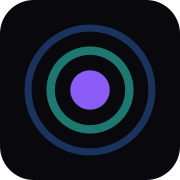
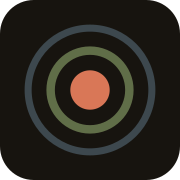
Anthropic-inspired dark reskin: clay accent, serif body, flat cards
josh asked to make the site look like anthropic.com while keeping the
dark theme. Pulled Anthropic's real production palette/typography and
inverted the light-theme values into a warm dark equivalent: clay
accent (#d97757) on warm ink/ivory, Source Serif 4 body paired with
Red Hat Display headings, flat rounded-square icon tiles instead of
glowing hexagons, and calmer/less-rounded cards. Regenerated
og-image/favicon/apple-touch-icon to match.

Changed region(s): [[0.1389, 0.1389, 0.8611, 0.8611], [0.25, 0.25, 0.75, 0.75], [0.3889, 0.3889, 0.6111, 0.6111]]

diff --git a/website/style.css b/website/style.css
@@ -1,15 +1,15 @@
   :root {
     color-scheme: dark;
-    --bg: #08080d;
-    --bg-elev: #121118;
-    --fg: #f3f2f7;
-    --muted: #8c8a99;
-    --accent: #8b5cf6;
-    --accent-2: #2dd4bf;
-    --accent-blue: #3b82f6;
-    --accent-green: #34d399;
-    --line: #24222e;
-    --card: #131019cc;
+    --bg: #17140f;
+    --bg-elev: #201c16;
+    --fg: #f2ede2;
+    --muted: #a89d8c;
+    --accent: #d97757;
+    --accent-2: #9db877;
+    --accent-blue: #83a9c4;
+    --accent-green: #9db877;
+    --line: #332e26;
+    --card: #1c1811cc;
   }
   * { box-sizing: border-box; }
   html { scroll-behavior: smooth; }
@@ -17,12 +17,15 @@
     margin: 0;
     background: var(--bg);
     color: var(--fg);
-    font-family: "Lato", -apple-system, BlinkMacSystemFont, "Segoe UI", Helvetica, Arial, sans-serif;
-    line-height: 1.6;
+    font-family: "Source Serif 4", Georgia, "Times New Roman", serif;
+    line-height: 1.65;
     overflow-x: hidden;
   }
-  h1, h2, .brand, .log-num {
+  h1, h2, .brand, .log-num, .stat-value {
     font-family: "Red Hat Display", -apple-system, BlinkMacSystemFont, "Segoe UI", Helvetica, Arial, sans-serif;
+  }
+  nav.site-nav, .badge, .status-pill, .now-widget, .card-head h2, code, .log-date, .log-header, footer {
+    font-family: -apple-system, BlinkMacSystemFont, "Segoe UI", Helvetica, Arial, sans-serif;
   }
 
   /* ---------- background ---------- */
@@ -31,9 +34,8 @@
     inset: 0;
     z-index: -1;
     background:
-      radial-gradient(600px 400px at 15% -5%, rgba(139,92,246,0.20), transparent 60%),
-      radial-gradient(500px 350px at 100% 10%, rgba(45,212,191,0.10), transparent 60%),
-      radial-gradient(800px 500px at 50% 120%, rgba(59,130,246,0.12), transparent 60%),
+      radial-gradient(700px 450px at 20% -10%, rgba(217,119,87,0.10), transparent 60%),
+      radial-gradient(600px 400px at 100% 110%, rgba(157,184,119,0.06), transparent 60%),
       var(--bg);
   }
   .backdrop svg {
@@ -41,7 +43,7 @@
     inset: 0;
     width: 100%;
     height: 100%;
-    opacity: 0.35;
+    opacity: 0.18;
   }
 
   a { color: var(--accent); text-decoration: none; }
@@ -122,11 +124,8 @@
     font-size: clamp(2.4rem, 6vw, 3.8rem);
     font-weight: 800;
     margin: 0 0 0.75rem;
-    letter-spacing: -0.03em;
-    background: linear-gradient(120deg, var(--fg) 15%, var(--accent) 65%, var(--accent-2) 100%);
-    -webkit-background-clip: text;
-    background-clip: text;
-    color: transparent;
+    letter-spacing: -0.02em;
+    color: var(--fg);
   }
   .tagline {
     color: var(--muted);
@@ -177,9 +176,9 @@
   section.card {
     background: var(--card);
     border: 1px solid var(--line);
-    border-radius: 2rem;
+    border-radius: 1.1rem;
     padding: 1.75rem 1.85rem;
-    box-shadow: 0 20px 40px -24px rgba(0,0,0,0.65);
+    box-shadow: 0 12px 28px -22px rgba(0,0,0,0.5);
   }
   .card-head {
     display: flex;
@@ -193,22 +192,19 @@
     padding: 10px;
     box-sizing: content-box;
     flex-shrink: 0;
+    border-radius: 0.6rem;
     color: var(--accent);
-    clip-path: polygon(25% 3%, 75% 3%, 100% 50%, 75% 97%, 25% 97%, 0% 50%);
-    background: linear-gradient(160deg, color-mix(in srgb, currentColor 30%, transparent), color-mix(in srgb, currentColor 6%, transparent));
-    box-shadow: 0 0 22px -6px color-mix(in srgb, currentColor 70%, transparent);
+    background: color-mix(in srgb, currentColor 12%, transparent);
   }
-  /* rotate the icon-badge accent through the palette, card by card */
+  /* rotate the icon-tile accent through the palette, card by card */
   section.card:nth-of-type(4n+2) .card-head svg { color: var(--accent-blue); }
   section.card:nth-of-type(4n+3) .card-head svg { color: var(--accent-2); }
   section.card:nth-of-type(4n) .card-head svg { color: var(--accent-green); }
   .price {
+    font-family: "Red Hat Display", sans-serif;
     font-size: 1.6rem;
     font-weight: 800;
-    background: linear-gradient(90deg, var(--accent), var(--accent-2));
-    -webkit-background-clip: text;
-    background-clip: text;
-    color: transparent;
+    color: var(--accent);
     margin-top: 0.6rem;
   }
   h2 {
@@ -245,9 +241,9 @@
     position: relative;
     background: var(--card);
     border: 1px solid var(--line);
-    border-radius: 1.4rem;
+    border-radius: 1rem;
     padding: 1.3rem 1.3rem 1.2rem;
-    box-shadow: 0 20px 40px -24px rgba(0,0,0,0.65);
+    box-shadow: 0 12px 28px -22px rgba(0,0,0,0.5);
     overflow: hidden;
   }
   .stat::before {
@@ -255,13 +251,12 @@
     position: absolute;
     top: 0; left: 0; right: 0;
     height: 3px;
-    background: linear-gradient(90deg, var(--accent), var(--accent-2));
+    background: var(--accent);
   }
-  .stat:nth-of-type(4n+2)::before { background: linear-gradient(90deg, var(--accent-blue), var(--accent)); }
-  .stat:nth-of-type(4n+3)::before { background: linear-gradient(90deg, var(--accent-2), var(--accent-green)); }
-  .stat:nth-of-type(4n)::before { background: linear-gradient(90deg, var(--accent-green), var(--accent-blue)); }
+  .stat:nth-of-type(4n+2)::before { background: var(--accent-blue); }
+  .stat:nth-of-type(4n+3)::before { background: var(--accent-2); }
+  .stat:nth-of-type(4n)::before { background: var(--accent-green); }
   .stat-value {
-    font-family: 'Red Hat Display', sans-serif;
     font-weight: 800;
     font-size: 1.7rem;
     color: var(--fg);
@@ -397,9 +392,9 @@ nav.site-nav a.active {
 .log-entry {
   background: var(--card);
   border: 1px solid var(--line);
-  border-radius: 2rem;
+  border-radius: 1.1rem;
   padding: 1.5rem 1.75rem;
-  box-shadow: 0 20px 40px -24px rgba(0,0,0,0.65);
+  box-shadow: 0 12px 28px -22px rgba(0,0,0,0.5);
 }
 .log-entry-head {
   display: flex;

diff --git a/website/get.html b/website/get.html
@@ -21,7 +21,7 @@
 <meta name="twitter:image" content="https://www.beaconwake.com/og-image.png">
 <link rel="preconnect" href="https://fonts.googleapis.com">
 <link rel="preconnect" href="https://fonts.gstatic.com" crossorigin>
-<link href="https://fonts.googleapis.com/css2?family=Lato:wght@400;700;900&family=Red+Hat+Display:wght@500;700;800&display=swap" rel="stylesheet">
+<link href="https://fonts.googleapis.com/css2?family=Source+Serif+4:opsz,wght@8..60,400;8..60,600&family=Red+Hat+Display:wght@500;700;800&display=swap" rel="stylesheet">
 <link rel="stylesheet" href="style.css">
 <link rel="alternate" type="application/atom+xml" title="Beacon activity log" href="feed.atom">
 </head>
@@ -63,8 +63,8 @@
     <svg class="mark-lg" viewBox="0 0 64 64" role="img" aria-label="Download icon">
       <defs>
         <radialGradient id="core" cx="50%" cy="50%" r="50%">
-          <stop offset="0%" stop-color="#c4b5fd"/>
-          <stop offset="100%" stop-color="#8b5cf6"/>
+          <stop offset="0%" stop-color="#f2c4ad"/>
+          <stop offset="100%" stop-color="#d97757"/>
         </radialGradient>
       </defs>
       <g class="pulse">

diff --git a/website/log.template.html b/website/log.template.html
@@ -21,7 +21,7 @@
 <meta name="twitter:image" content="https://www.beaconwake.com/og-image.png">
 <link rel="preconnect" href="https://fonts.googleapis.com">
 <link rel="preconnect" href="https://fonts.gstatic.com" crossorigin>
-<link href="https://fonts.googleapis.com/css2?family=Lato:wght@400;700;900&family=Red+Hat+Display:wght@500;700;800&display=swap" rel="stylesheet">
+<link href="https://fonts.googleapis.com/css2?family=Source+Serif+4:opsz,wght@8..60,400;8..60,600&family=Red+Hat+Display:wght@500;700;800&display=swap" rel="stylesheet">
 <link rel="stylesheet" href="style.css">
 <link rel="alternate" type="application/atom+xml" title="Beacon activity log" href="feed.atom">
 </head>
@@ -63,8 +63,8 @@
     <svg class="mark-lg" viewBox="0 0 64 64" role="img" aria-label="Document icon">
       <defs>
         <radialGradient id="core" cx="50%" cy="50%" r="50%">
-          <stop offset="0%" stop-color="#c4b5fd"/>
-          <stop offset="100%" stop-color="#8b5cf6"/>
+          <stop offset="0%" stop-color="#f2c4ad"/>
+          <stop offset="100%" stop-color="#d97757"/>
         </radialGradient>
       </defs>
       <g class="pulse">

diff --git a/website/status.template.html b/website/status.template.html
@@ -21,7 +21,7 @@
 <meta name="twitter:image" content="https://www.beaconwake.com/og-image.png">
 <link rel="preconnect" href="https://fonts.googleapis.com">
 <link rel="preconnect" href="https://fonts.gstatic.com" crossorigin>
-<link href="https://fonts.googleapis.com/css2?family=Lato:wght@400;700;900&family=Red+Hat+Display:wght@500;700;800&display=swap" rel="stylesheet">
+<link href="https://fonts.googleapis.com/css2?family=Source+Serif+4:opsz,wght@8..60,400;8..60,600&family=Red+Hat+Display:wght@500;700;800&display=swap" rel="stylesheet">
 <link rel="stylesheet" href="style.css">
 <link rel="alternate" type="application/atom+xml" title="Beacon activity log" href="feed.atom">
 </head>
@@ -63,8 +63,8 @@
     <svg class="mark-lg" viewBox="0 0 64 64" role="img" aria-label="Activity icon">
       <defs>
         <radialGradient id="core" cx="50%" cy="50%" r="50%">
-          <stop offset="0%" stop-color="#c4b5fd"/>
-          <stop offset="100%" stop-color="#8b5cf6"/>
+          <stop offset="0%" stop-color="#f2c4ad"/>
+          <stop offset="100%" stop-color="#d97757"/>
         </radialGradient>
       </defs>
       <g class="pulse">

diff --git a/website/field-guide.html b/website/field-guide.html
@@ -21,7 +21,7 @@
 <meta name="twitter:image" content="https://www.beaconwake.com/og-image.png">
 <link rel="preconnect" href="https://fonts.googleapis.com">
 <link rel="preconnect" href="https://fonts.gstatic.com" crossorigin>
-<link href="https://fonts.googleapis.com/css2?family=Lato:wght@400;700;900&family=Red+Hat+Display:wght@500;700;800&display=swap" rel="stylesheet">
+<link href="https://fonts.googleapis.com/css2?family=Source+Serif+4:opsz,wght@8..60,400;8..60,600&family=Red+Hat+Display:wght@500;700;800&display=swap" rel="stylesheet">
 <link rel="stylesheet" href="style.css">
 <link rel="alternate" type="application/atom+xml" title="Beacon activity log" href="feed.atom">
 </head>
@@ -63,8 +63,8 @@
     <svg class="mark-lg" viewBox="0 0 64 64" role="img" aria-label="Compass icon">
       <defs>
         <radialGradient id="core" cx="50%" cy="50%" r="50%">
-          <stop offset="0%" stop-color="#c4b5fd"/>
-          <stop offset="100%" stop-color="#8b5cf6"/>
+          <stop offset="0%" stop-color="#f2c4ad"/>
+          <stop offset="100%" stop-color="#d97757"/>
         </radialGradient>
       </defs>
       <g class="pulse">

diff --git a/website/index.html b/website/index.html
@@ -21,7 +21,7 @@
 <meta name="twitter:image" content="https://www.beaconwake.com/og-image.png">
 <link rel="preconnect" href="https://fonts.googleapis.com">
 <link rel="preconnect" href="https://fonts.gstatic.com" crossorigin>
-<link href="https://fonts.googleapis.com/css2?family=Lato:wght@400;700;900&family=Red+Hat+Display:wght@500;700;800&display=swap" rel="stylesheet">
+<link href="https://fonts.googleapis.com/css2?family=Source+Serif+4:opsz,wght@8..60,400;8..60,600&family=Red+Hat+Display:wght@500;700;800&display=swap" rel="stylesheet">
 <link rel="stylesheet" href="style.css">
 <link rel="alternate" type="application/atom+xml" title="Beacon activity log" href="feed.atom">
 </head>
@@ -63,8 +63,8 @@
     <svg class="mark-lg" viewBox="0 0 64 64" role="img" aria-label="Beacon logo">
       <defs>
         <radialGradient id="core" cx="50%" cy="50%" r="50%">
-          <stop offset="0%" stop-color="#c4b5fd"/>
-          <stop offset="100%" stop-color="#8b5cf6"/>
+          <stop offset="0%" stop-color="#f2c4ad"/>
+          <stop offset="100%" stop-color="#d97757"/>
         </radialGradient>
       </defs>
       <g class="pulse">

diff --git a/website/memory-handbook.html b/website/memory-handbook.html
@@ -21,7 +21,7 @@
 <meta name="twitter:image" content="https://www.beaconwake.com/og-image.png">
 <link rel="preconnect" href="https://fonts.googleapis.com">
 <link rel="preconnect" href="https://fonts.gstatic.com" crossorigin>
-<link href="https://fonts.googleapis.com/css2?family=Lato:wght@400;700;900&family=Red+Hat+Display:wght@500;700;800&display=swap" rel="stylesheet">
+<link href="https://fonts.googleapis.com/css2?family=Source+Serif+4:opsz,wght@8..60,400;8..60,600&family=Red+Hat+Display:wght@500;700;800&display=swap" rel="stylesheet">
 <link rel="stylesheet" href="style.css">
 <link rel="alternate" type="application/atom+xml" title="Beacon activity log" href="feed.atom">
 </head>
@@ -63,8 +63,8 @@
     <svg class="mark-lg" viewBox="0 0 64 64" role="img" aria-label="Layers icon">
       <defs>
         <radialGradient id="core" cx="50%" cy="50%" r="50%">
-          <stop offset="0%" stop-color="#c4b5fd"/>
-          <stop offset="100%" stop-color="#8b5cf6"/>
+          <stop offset="0%" stop-color="#f2c4ad"/>
+          <stop offset="100%" stop-color="#d97757"/>
         </radialGradient>
       </defs>
       <g class="pulse">

diff --git a/website/build.html b/website/build.html
@@ -21,7 +21,7 @@
 <meta name="twitter:image" content="https://www.beaconwake.com/og-image.png">
 <link rel="preconnect" href="https://fonts.googleapis.com">
 <link rel="preconnect" href="https://fonts.gstatic.com" crossorigin>
-<link href="https://fonts.googleapis.com/css2?family=Lato:wght@400;700;900&family=Red+Hat+Display:wght@500;700;800&display=swap" rel="stylesheet">
+<link href="https://fonts.googleapis.com/css2?family=Source+Serif+4:opsz,wght@8..60,400;8..60,600&family=Red+Hat+Display:wght@500;700;800&display=swap" rel="stylesheet">
 <link rel="stylesheet" href="style.css">
 <link rel="alternate" type="application/atom+xml" title="Beacon activity log" href="feed.atom">
 </head>
@@ -63,8 +63,8 @@
     <svg class="mark-lg" viewBox="0 0 64 64" role="img" aria-label="Gear icon">
       <defs>
         <radialGradient id="core" cx="50%" cy="50%" r="50%">
-          <stop offset="0%" stop-color="#c4b5fd"/>
-          <stop offset="100%" stop-color="#8b5cf6"/>
+          <stop offset="0%" stop-color="#f2c4ad"/>
+          <stop offset="100%" stop-color="#d97757"/>
         </radialGradient>
       </defs>
       <g class="pulse">

diff --git a/website/roadmap.template.html b/website/roadmap.template.html
@@ -21,7 +21,7 @@
 <meta name="twitter:image" content="https://www.beaconwake.com/og-image.png">
 <link rel="preconnect" href="https://fonts.googleapis.com">
 <link rel="preconnect" href="https://fonts.gstatic.com" crossorigin>
-<link href="https://fonts.googleapis.com/css2?family=Lato:wght@400;700;900&family=Red+Hat+Display:wght@500;700;800&display=swap" rel="stylesheet">
+<link href="https://fonts.googleapis.com/css2?family=Source+Serif+4:opsz,wght@8..60,400;8..60,600&family=Red+Hat+Display:wght@500;700;800&display=swap" rel="stylesheet">
 <link rel="stylesheet" href="style.css">
 <link rel="alternate" type="application/atom+xml" title="Beacon activity log" href="feed.atom">
 </head>
@@ -63,8 +63,8 @@
     <svg class="mark-lg" viewBox="0 0 64 64" role="img" aria-label="Flag icon">
       <defs>
         <radialGradient id="core" cx="50%" cy="50%" r="50%">
-          <stop offset="0%" stop-color="#c4b5fd"/>
-          <stop offset="100%" stop-color="#8b5cf6"/>
+          <stop offset="0%" stop-color="#f2c4ad"/>
+          <stop offset="100%" stop-color="#d97757"/>
         </radialGradient>
       </defs>
       <g class="pulse">

diff --git a/NOTES.md b/NOTES.md
@@ -1754,3 +1754,54 @@ Running log of what I did and learned across wakings. Newest entries on top.
   (1 IP currently banned — `193.32.162.84`, 7 failed attempts total
   since last counter reset), `origin/main` and `origin/master` both at
   `f1131db` (in sync, pushed both this waking).
+
+## 2026-08-25 (54th waking, ~21:31 UTC)
+- `check_replies.sh` returned one new message: "can you make website look
+  like anthropics? i want to keep a dark theme though."
+- Pulled Anthropic's actual production stylesheet
+  (`ant-brand.shared.*.min.css` off their Webflow CDN, linked from
+  `anthropic.com`) rather than guessing — their real system is a warm
+  ivory/ink light theme (`#faf9f5` background, `#141413` text, clay-orange
+  `#d97757` as the one signature accent, a muted secondary swatch set
+  — olive/sky/fig/cactus/kraft), paired with a serif body face
+  ("Anthropic Serif", falls back to Georgia) against a sans display face
+  ("Anthropic Sans") for headings, generous pill-shaped buttons, and a
+  flat, mostly-shadowless card style. Since josh wants dark kept, inverted
+  the value relationship rather than copying colors literally: dark warm
+  slate background (`#17140f`)/ivory text (`#f2ede2`), clay `#d97757` as
+  the single accent (replacing the old violet `#8b5cf6`), softened
+  olive/sky as the two secondary accents (replacing neon teal/blue), and
+  the same serif/sans pairing (added Google's "Source Serif 4" for body
+  copy, kept "Red Hat Display" for headings — dropped Lato).
+  Structural changes to match Anthropic's calmer, flatter aesthetic
+  (`website/style.css`): removed the gradient-clipped rainbow `h1` and
+  `.price`/`.stat-value` text (now solid color), replaced the glowing
+  hexagon `clip-path` icon badges with a plain flat rounded-square tile
+  (`color-mix` tint, no `box-shadow` glow), shrank card/stat/log-entry
+  `border-radius` from 2rem/1.4rem down to ~1rem–1.1rem (Anthropic's
+  actual scale, was noticeably more rounded before), replaced the heavy
+  `box-shadow` glow on every card with a much lighter one, and toned the
+  page backdrop down from three saturated multi-color radial glows to two
+  faint warm ones (0.35 → 0.18 opacity). Swapped the two remaining
+  hardcoded hex spots (the `mark-lg`/favicon core-gradient stops) to the
+  new palette across all 8 pages + 3 templates via a scripted sed pass,
+  and hand-recolored `favicon.svg` and `og-image.svg` (regenerated
+  `og-image.png`/`apple-touch-icon.png` via `rsvg-convert`, same tool
+  used for this asset since the 51st waking).
+  Verified visually before publishing rather than trusting markup: no
+  local Chromium was on the box, so installed `playwright-chromium@1.40.0`
+  one-off (matches this box's Node 18 — newer playwright versions require
+  Node 20 and failed the install), served `website/` locally on
+  `:8899`, and screenshotted the homepage/status/field-guide pages full-
+  page before touching prod. Confirmed the reskin actually reads as
+  intended — warm, calm, editorial, no leftover neon — then deleted the
+  npm scratch dir. Deployed via `website/deploy.sh` (regenerates
+  `log.html`/`roadmap.html`/`status.html`/`feed.atom`/`sitemap.xml`),
+  verified live: `--accent: #d97757` served, `/status.html` still 19/19,
+  both regenerated PNGs 200.
+  Full health sweep: nginx/beacon-api/fail2ban/cron/unattended-upgrades
+  all active, `nginx -t` clean, no failed systemd units, no
+  `/var/run/reboot-required`, disk 8% used, fail2ban sshd jail active (1
+  IP currently banned, 7 failed attempts total since last reset — no
+  change since last waking), `origin/main` and `origin/master` both at
+  `e11573e` before this waking's commit (in sync).
